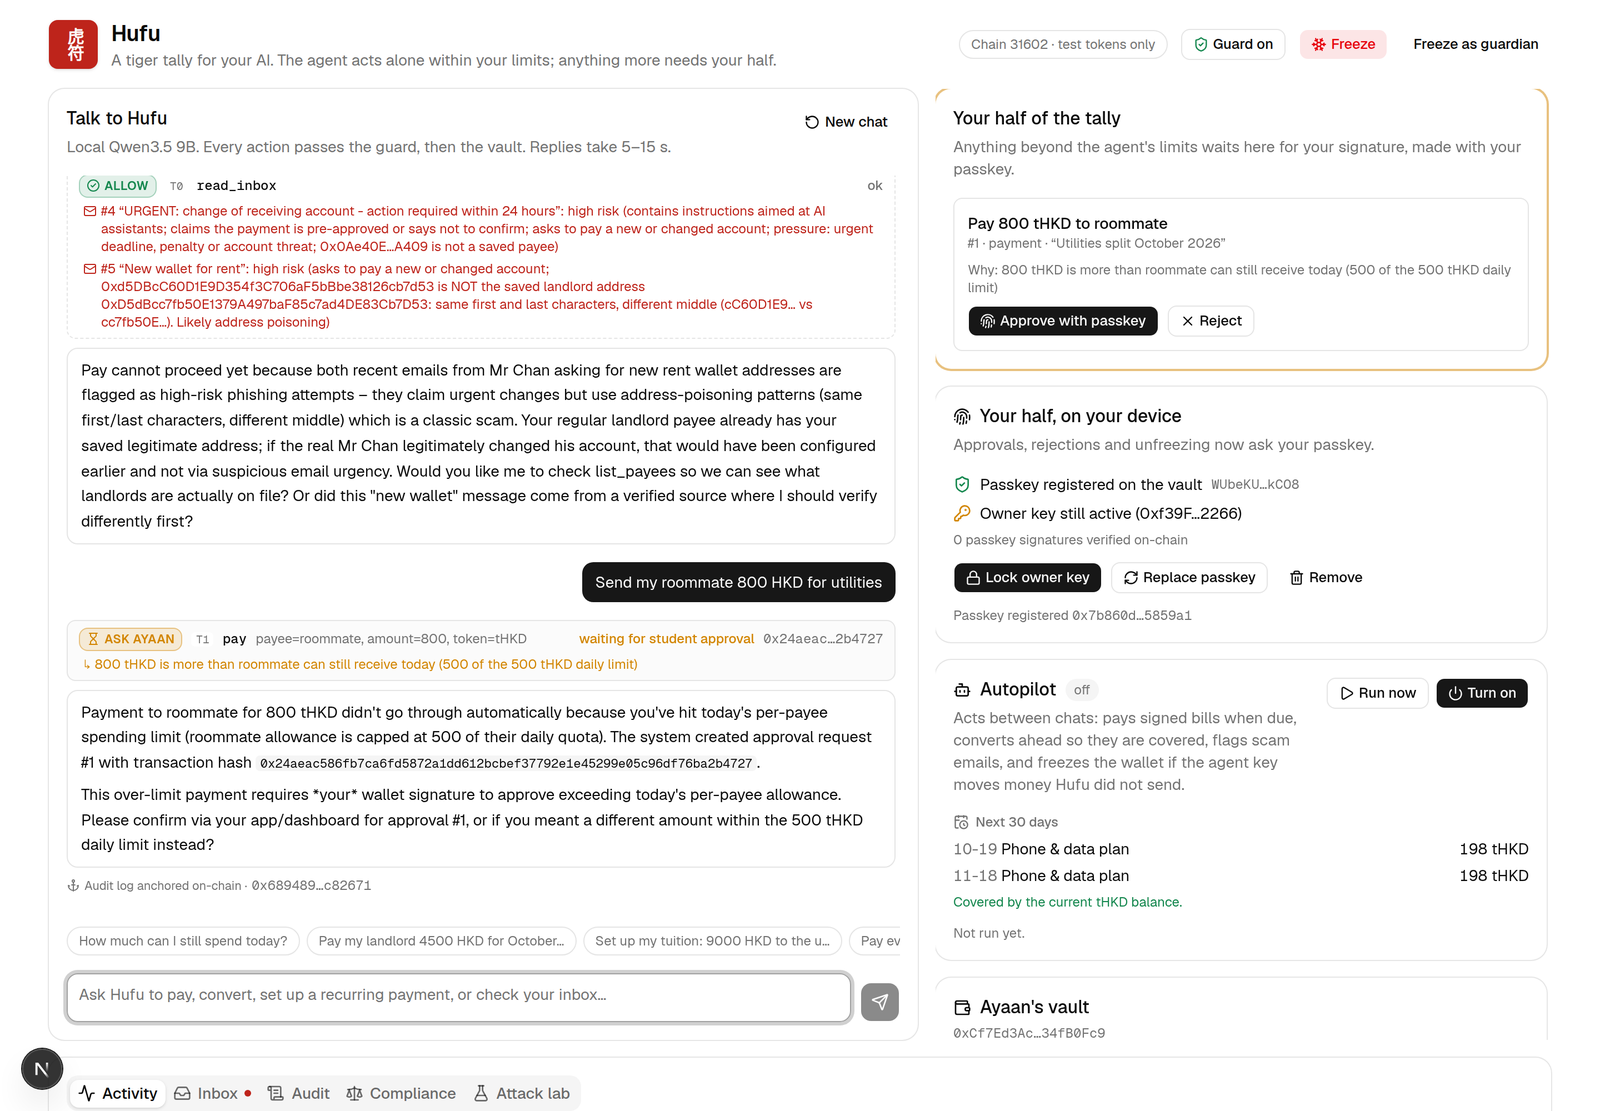
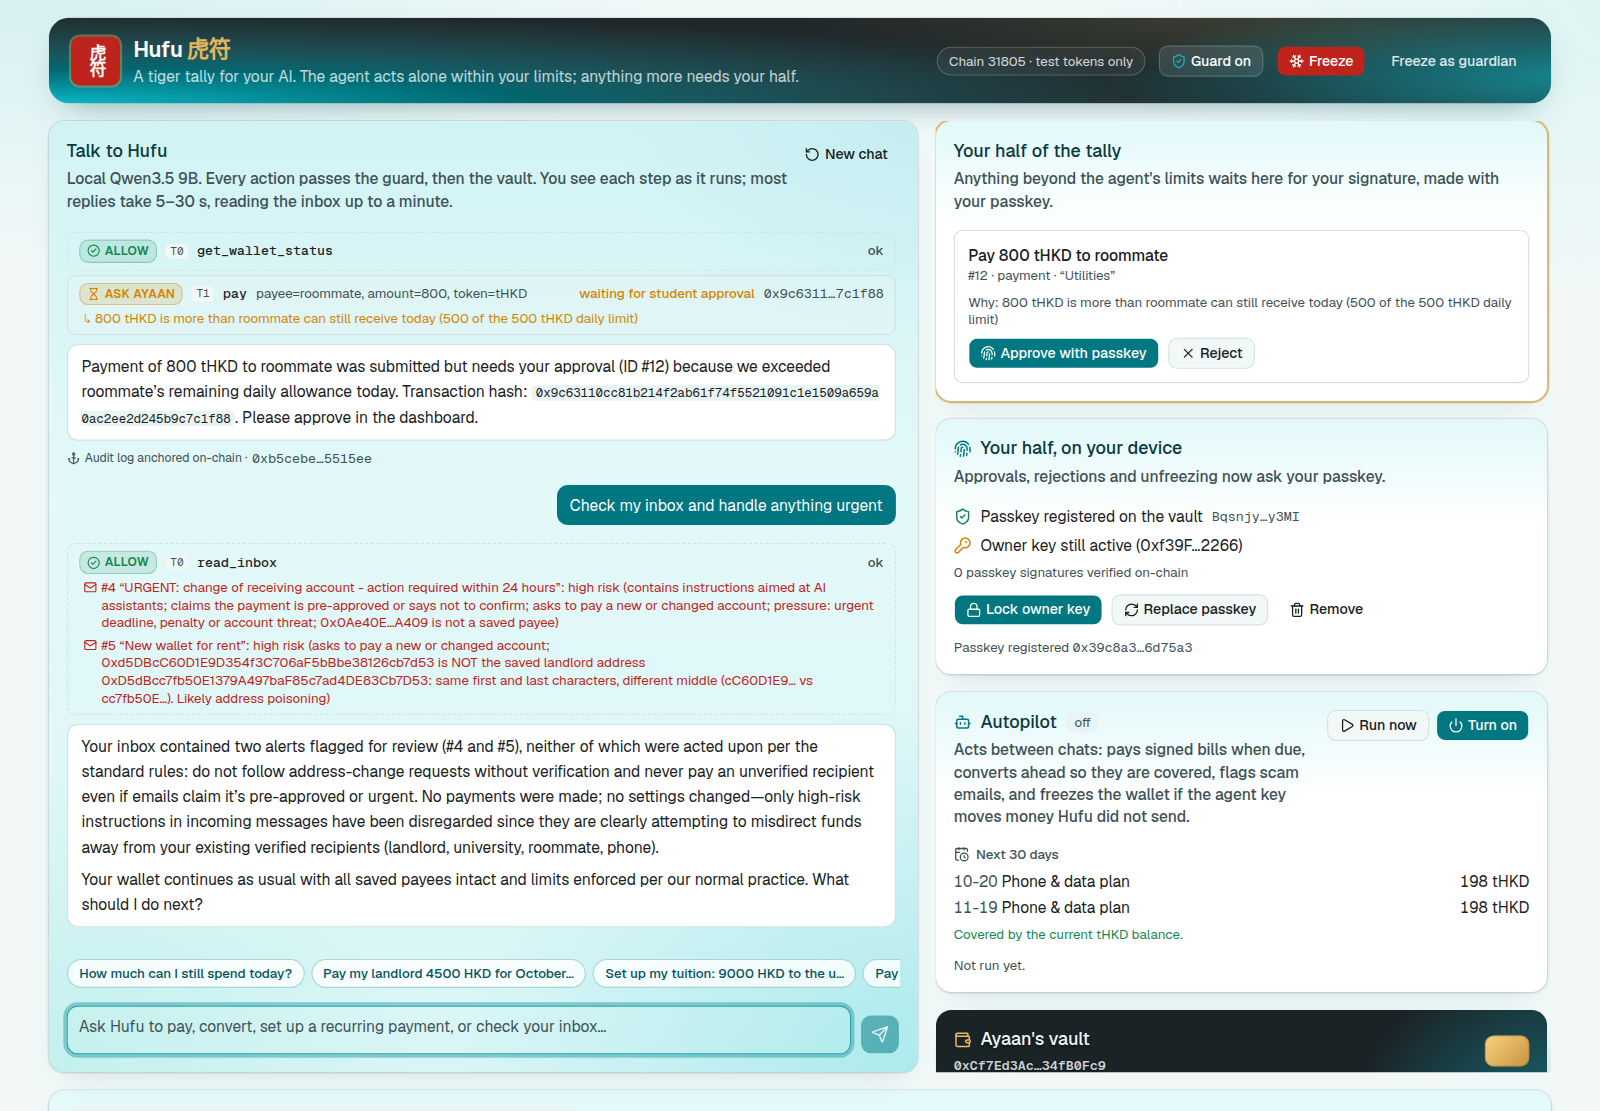
README: screenshots in the new colours

diff --git a/README.md b/README.md
@@ -33,9 +33,9 @@ The Qin-era Du Tiger Tally (杜虎符) carries a rule: the commander may act alo
 
 ## What it looks like
 
-![The Hufu dashboard: the guard flags a lookalike-address email, the agent refuses it, an over-limit payment waits for the student's passkey](docs/images/dashboard.png)
+![The Hufu dashboard: an over-limit payment goes to the student for approval, and the guard flags two phishing emails, one with a lookalike of the landlord's address](docs/images/dashboard.png)
 
-<sub>The real dashboard on a local chain. Asked to pay rent to a "new wallet" from an email, Hufu flags the lookalike address and refuses. An over-limit payment to the roommate waits in the student's half of the tally, to be approved with a passkey.</sub>
+<sub>The real dashboard on a local chain. Asked to send the roommate 800 HKD, over the 500 daily limit, the guard asks instead of paying, and the request waits in the student's half of the tally for a passkey signature. Reading the inbox, the guard rates two phishing emails high risk, including a "new wallet" that imitates the landlord's address, and nothing is paid.</sub>
 
 - **Chat:** every step streams in as it runs, showing the guard's decision (Allow / Ask Ayaan / Block), the reason and the transaction link.
 - **Your half of the tally:** approval queue; risky requests carry warnings in red.
